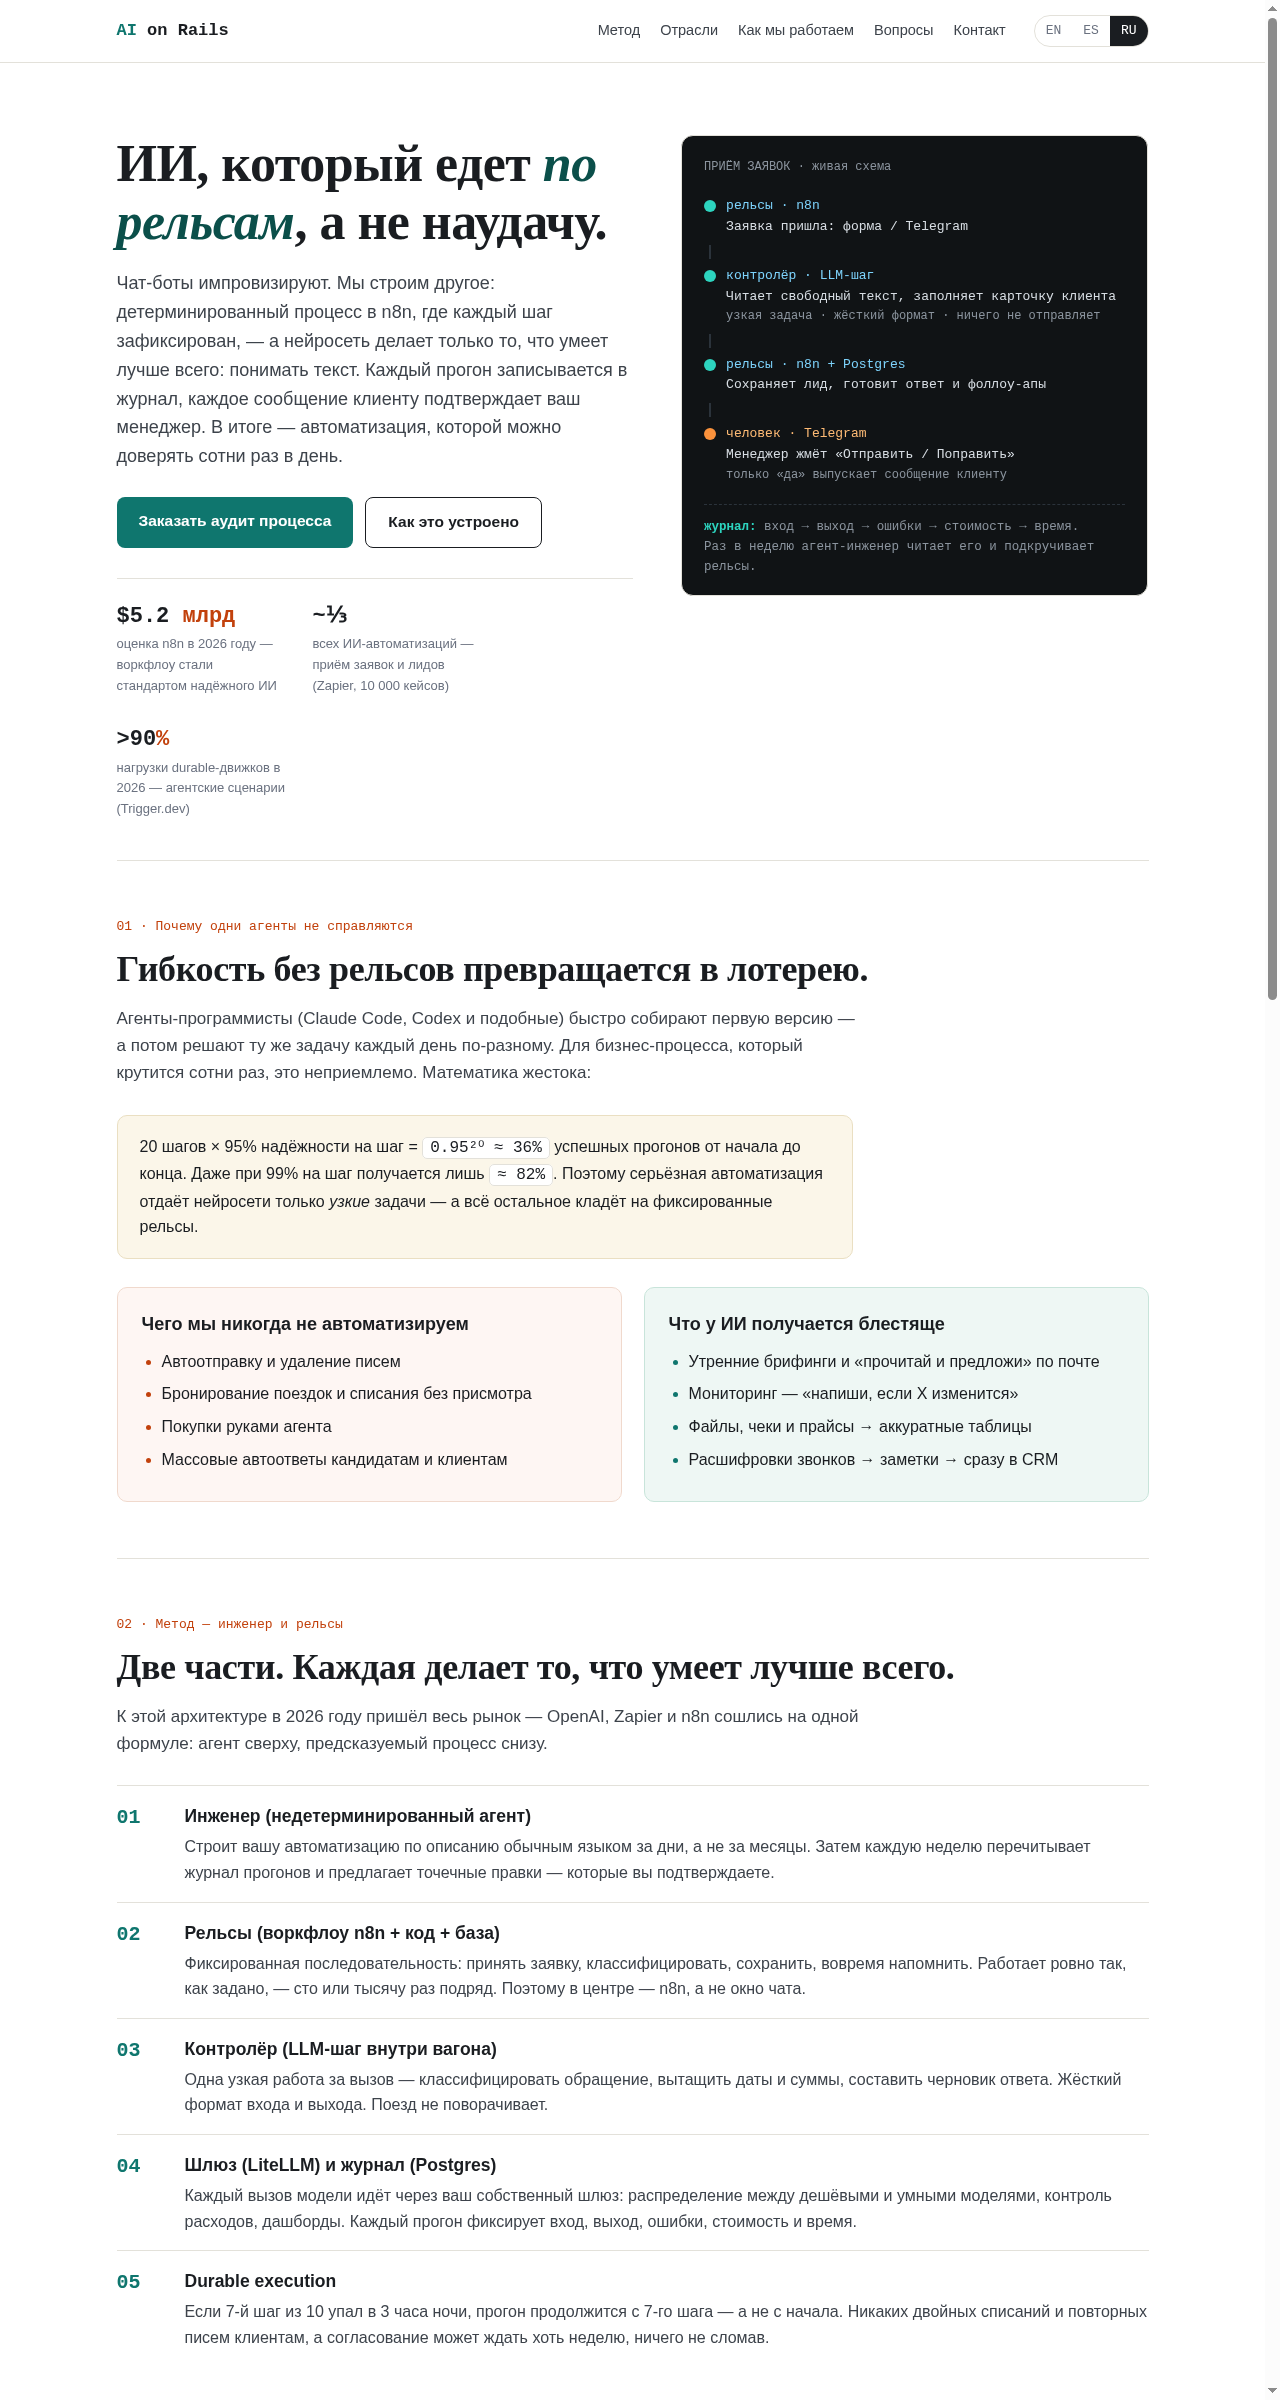
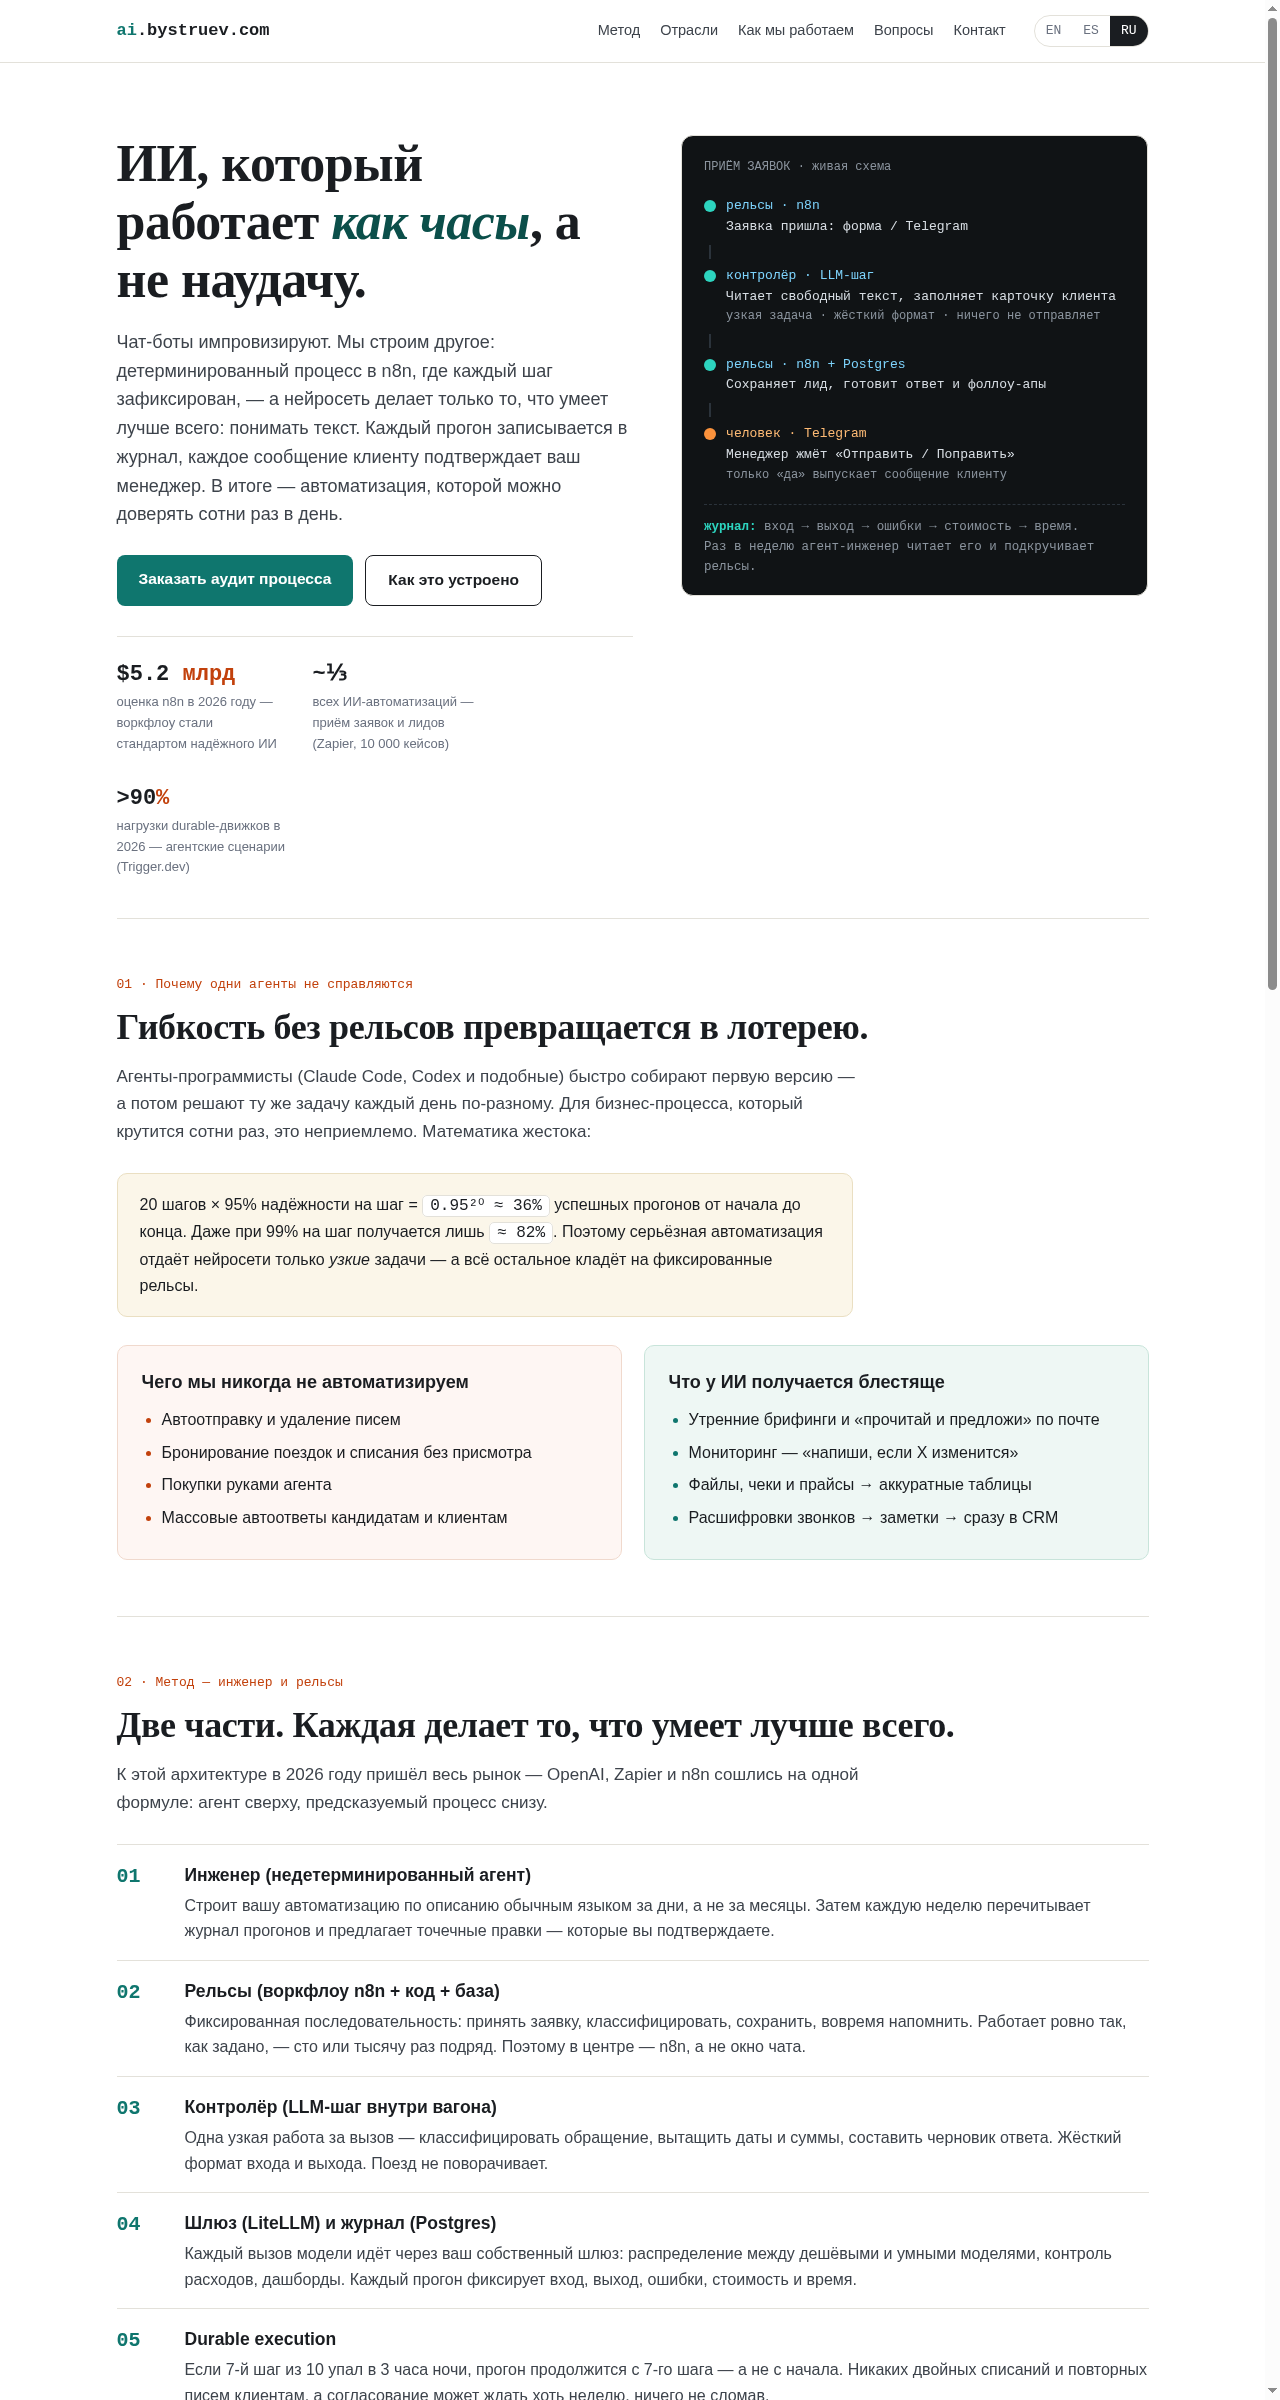
Rebrand to ai.bystruev.com; repo renamed; README refreshed

Changed region(s): [[0.0938, 0.0625, 0.8438, 0.6562], [0.0938, 0.6875, 0.875, 1.0]]

diff --git a/ru/index.html b/ru/index.html
@@ -3,7 +3,7 @@
 <head>
 <meta charset="utf-8">
 <meta name="viewport" content="width=device-width, initial-scale=1">
-<title>AI on Rails — предсказуемые автоматизации на n8n + LLM для бизнеса</title>
+<title>Предсказуемые автоматизации на n8n + LLM — ai.bystruev.com</title>
 <meta name="description" content="Строим автоматизации, которым можно доверять: агент-инженер кладёт рельсы в n8n, LLM-шаги только понимают текст, каждый прогон журналируется, а важное подтверждает ваш менеджер.">
 <link rel="stylesheet" href="../style.css">
 <link rel="alternate" hreflang="en" href="../">
@@ -14,7 +14,7 @@
 <body>
 <header class="site-header">
   <div class="wrap">
-    <a class="brand" href="./"><b>AI</b> on Rails</a>
+    <a class="brand" href="./"><b>ai</b>.bystruev.com</a>
     <nav class="main">
       <a href="#metod">Метод</a>
       <a href="#otrasli">Отрасли</a>
@@ -30,7 +30,7 @@
   <div class="hero">
     <div class="hero-grid">
       <div>
-        <h1>ИИ, который едет <em>по рельсам</em>, а не наудачу.</h1>
+        <h1>ИИ, который работает <em>как часы</em>, а не наудачу.</h1>
         <p class="lede">Чат-боты импровизируют. Мы строим другое: детерминированный
         процесс в n8n, где каждый шаг зафиксирован, — а нейросеть делает только
         то, что умеет лучше всего: понимать текст. Каждый прогон записывается в
@@ -276,7 +276,7 @@
 
 <footer>
   <div class="wrap">
-    <span>AI on Rails — предсказуемые автоматизации на n8n + LLM.</span>
+    <span>ai.bystruev.com — предсказуемые автоматизации на n8n + LLM.</span>
     <span style="margin-left:auto"></span>
     <a href="../">English</a><a href="../es/">Español</a><a href="./">Русский</a>
   </div>

diff --git a/es/index.html b/es/index.html
@@ -3,7 +3,7 @@
 <head>
 <meta charset="utf-8">
 <meta name="viewport" content="width=device-width, initial-scale=1">
-<title>AI on Rails — Automatización predecible con n8n + LLM para tu negocio</title>
+<title>Automatización predecible con n8n + LLM — ai.bystruev.com</title>
 <meta name="description" content="Construimos automatizaciones con IA que sí son fiables: un agente ingeniero tiende los rieles en n8n, los pasos LLM solo entienden texto, cada ejecución queda registrada y tu equipo aprueba lo importante.">
 <link rel="stylesheet" href="../style.css">
 <link rel="alternate" hreflang="en" href="../">
@@ -14,7 +14,7 @@
 <body>
 <header class="site-header">
   <div class="wrap">
-    <a class="brand" href="./"><b>AI</b> on Rails</a>
+    <a class="brand" href="./"><b>ai</b>.bystruev.com</a>
     <nav class="main">
       <a href="#metodo">Método</a>
       <a href="#sectores">Sectores</a>
@@ -30,7 +30,7 @@
   <div class="hero">
     <div class="hero-grid">
       <div>
-        <h1>IA que corre <em>sobre rieles</em>, no sobre suerte.</h1>
+        <h1>IA que funciona <em>como un reloj</em>, no por suerte.</h1>
         <p class="lede">Los chatbots improvisan. Nosotros construimos otra cosa:
         un proceso determinista en n8n donde cada paso está fijado — y la red
         neuronal solo hace lo que se le da bien: entender texto. Cada ejecución
@@ -284,7 +284,7 @@
 
 <footer>
   <div class="wrap">
-    <span>AI on Rails — automatización predecible con n8n + LLM.</span>
+    <span>ai.bystruev.com — automatización predecible con n8n + LLM.</span>
     <span style="margin-left:auto"></span>
     <a href="../">English</a><a href="./">Español</a><a href="../ru/">Русский</a>
   </div>

diff --git a/index.html b/index.html
@@ -3,7 +3,7 @@
 <head>
 <meta charset="utf-8">
 <meta name="viewport" content="width=device-width, initial-scale=1">
-<title>AI on Rails — Predictable n8n + LLM Automation for Business</title>
+<title>Predictable n8n + LLM Automation — ai.bystruev.com</title>
 <meta name="description" content="We build predictable AI automations: an agent engineer lays n8n rails, LLM steps handle understanding, every run is journaled, humans approve what matters. Lead intake, support, documents.">
 <link rel="stylesheet" href="style.css">
 <link rel="alternate" hreflang="es" href="es/">
@@ -14,7 +14,7 @@
 <body>
 <header class="site-header">
   <div class="wrap">
-    <a class="brand" href="./"><b>AI</b> on Rails</a>
+    <a class="brand" href="./"><b>ai</b>.bystruev.com</a>
     <nav class="main">
       <a href="#method">Method</a>
       <a href="#industries">Industries</a>
@@ -30,7 +30,7 @@
   <div class="hero">
     <div class="hero-grid">
       <div>
-        <h1>AI that runs <em>on rails</em>, not on luck.</h1>
+        <h1>AI that works <em>like clockwork</em>, not by luck.</h1>
         <p class="lede">Chatbots improvise. We build something else: a deterministic
         n8n pipeline where every step is fixed — and the neural network only does
         what it is good at: understanding text. Every run is logged, every
@@ -276,7 +276,7 @@
 
 <footer>
   <div class="wrap">
-    <span>AI on Rails — predictable n8n + LLM automation.</span>
+    <span>ai.bystruev.com — predictable n8n + LLM automation.</span>
     <span style="margin-left:auto"></span>
     <a href="./">English</a><a href="es/">Español</a><a href="ru/">Русский</a>
   </div>

diff --git a/style.css b/style.css
@@ -1,4 +1,4 @@
-/* AI on Rails — trilingual static landing. System stacks only, no webfonts. */
+/* ai.bystruev.com — trilingual static landing. System stacks only, no webfonts. */
 :root {
   --paper: #ffffff;
   --ink: #1a1d21;

diff --git a/README.md b/README.md
@@ -1,4 +1,4 @@
-# AI on Rails
+# ai.bystruev.com
 
 Trilingual landing page selling predictable **n8n + LLM automation**
 (“engineer & rails” method) with worked examples from three industries.
@@ -24,9 +24,11 @@ Español:
 ## Local preview
 
 ```bash
-cd ~/ai-on-rails && python3 -m http.server 8080
+cd ~/ai.bystruev.com && python3 -m http.server 8080
 # open http://localhost:8080
 ```
+
+(`~/ai.bystruev.com` is a symlink to `~/Downloads/GitHub/dbystruev/ai.bystruev.com`.)
 
 ## Deploy
 
@@ -38,53 +40,15 @@ git push origin main
 
 ## URLs
 
-This is a **project page**, so it lives under your account's Pages domain:
+Custom domain (via `CNAME` file in this repo):
 
-- EN: `https://goswift.org/ai-on-rails/`
-- ES: `https://goswift.org/ai-on-rails/es/`
-- RU: `https://goswift.org/ai-on-rails/ru/`
+- EN: `https://ai.bystruev.com/`
+- ES: `https://ai.bystruev.com/es/`
+- RU: `https://ai.bystruev.com/ru/`
 
-(`dbystruev.github.io/ai-on-rails/…` redirects there automatically.)
-
-## Custom domain — fix `goswift.org` DNS (required, ~10 min)
-
-Your account Pages site (`dbystruev.github.io` repo) already has the custom
-domain `goswift.org` configured — but the domain currently **does not resolve
-(NXDOMAIN)**, so *none* of your Pages URLs work right now, including this new
-site. One DNS change fixes everything:
-
-1. At your DNS provider (wherever `goswift.org` is registered), add four
-   **A** records for `@` (GitHub Pages IPs — re-check the current list at
-   `https://docs.github.com/en/pages/configuring-a-custom-domain-for-your-github-pages-site`
-   if this ever stops working):
-   ```
-   185.199.108.153
-   185.199.109.153
-   185.199.110.153
-   185.199.111.153
-   ```
-   Optionally also add a **CNAME** `www` → `dbystruev.github.io` so
-   `www.goswift.org` works too (GitHub redirects it to the apex).
-2. Wait for DNS to propagate (5 min – 24 h), then open
-   `https://goswift.org/ai-on-rails/`.
-3. HTTPS is issued automatically — in the `dbystruev.github.io` repo go to
-   **Settings → Pages** and tick **Enforce HTTPS** once the certificate is
-   ready (usually within an hour of DNS going live).
-
-### Verify
-
-```bash
-dig +short goswift.org            # expect the four 185.199.x.x IPs
-curl -sIL https://goswift.org/ai-on-rails/ | grep -E '^HTTP'  # expect 200s
-```
-
-### Want a nicer URL, e.g. `rails.goswift.org`?
-
-That is a second, optional step: add a **CNAME** `rails` →
-`dbystruev.github.io` at your DNS provider, then in **this** repo
-(`ai-on-rails`) go to **Settings → Pages → Custom domain**, type
-`rails.goswift.org`, Save. (Equivalent: commit a file named `CNAME`
-containing exactly `rails.goswift.org`.) Then enforce HTTPS here too.
+DNS: `ai.bystruev.com` → CNAME `dbystruev.github.io`.
+HTTPS is provisioned by GitHub automatically — tick **Enforce HTTPS**
+under **Settings → Pages** once the certificate is ready.
 
 ## To customize
 
